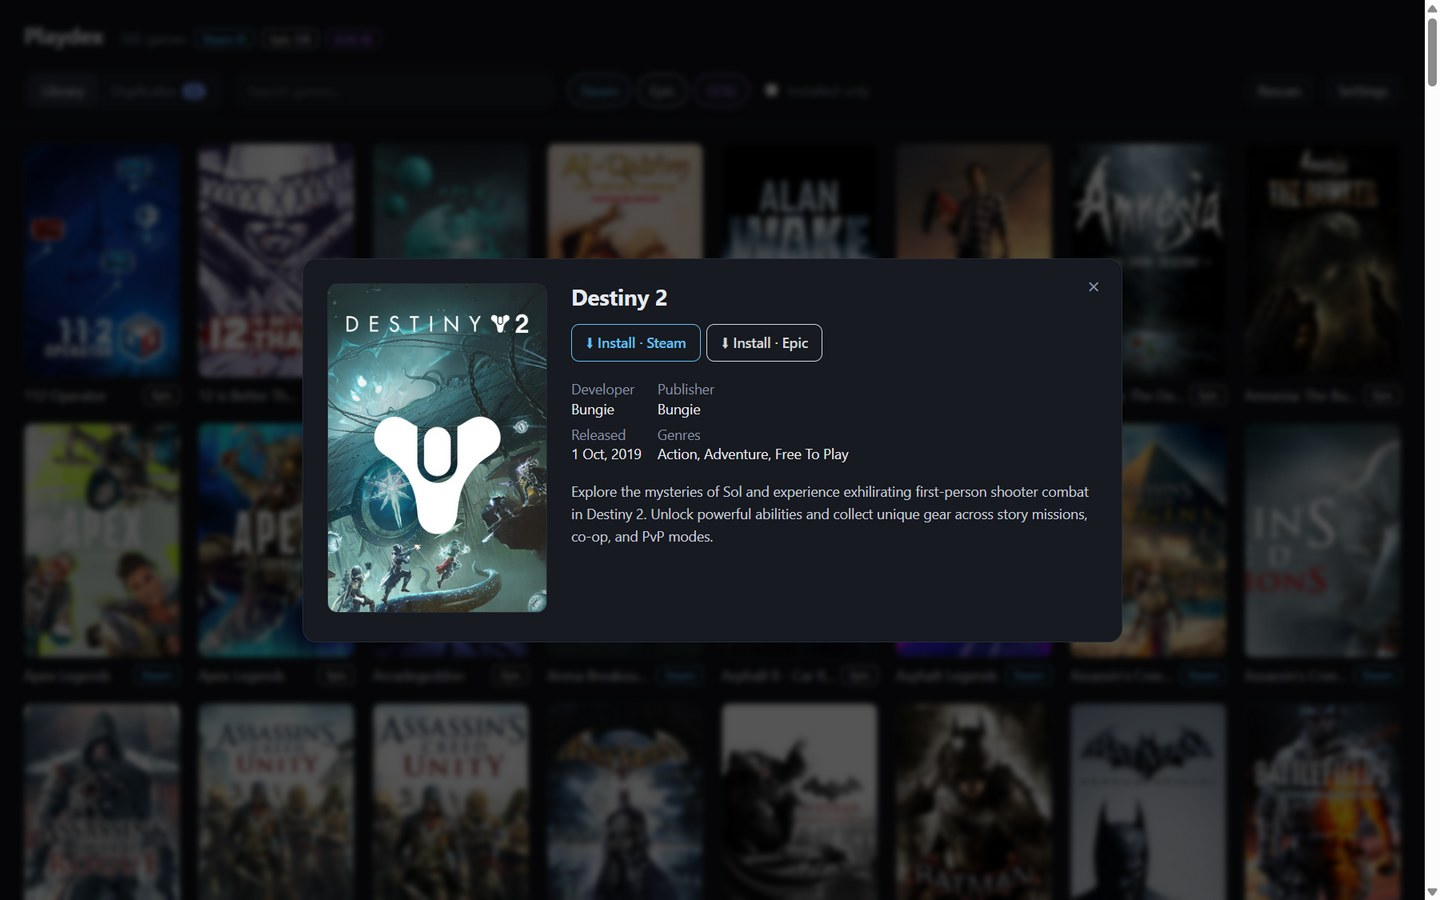
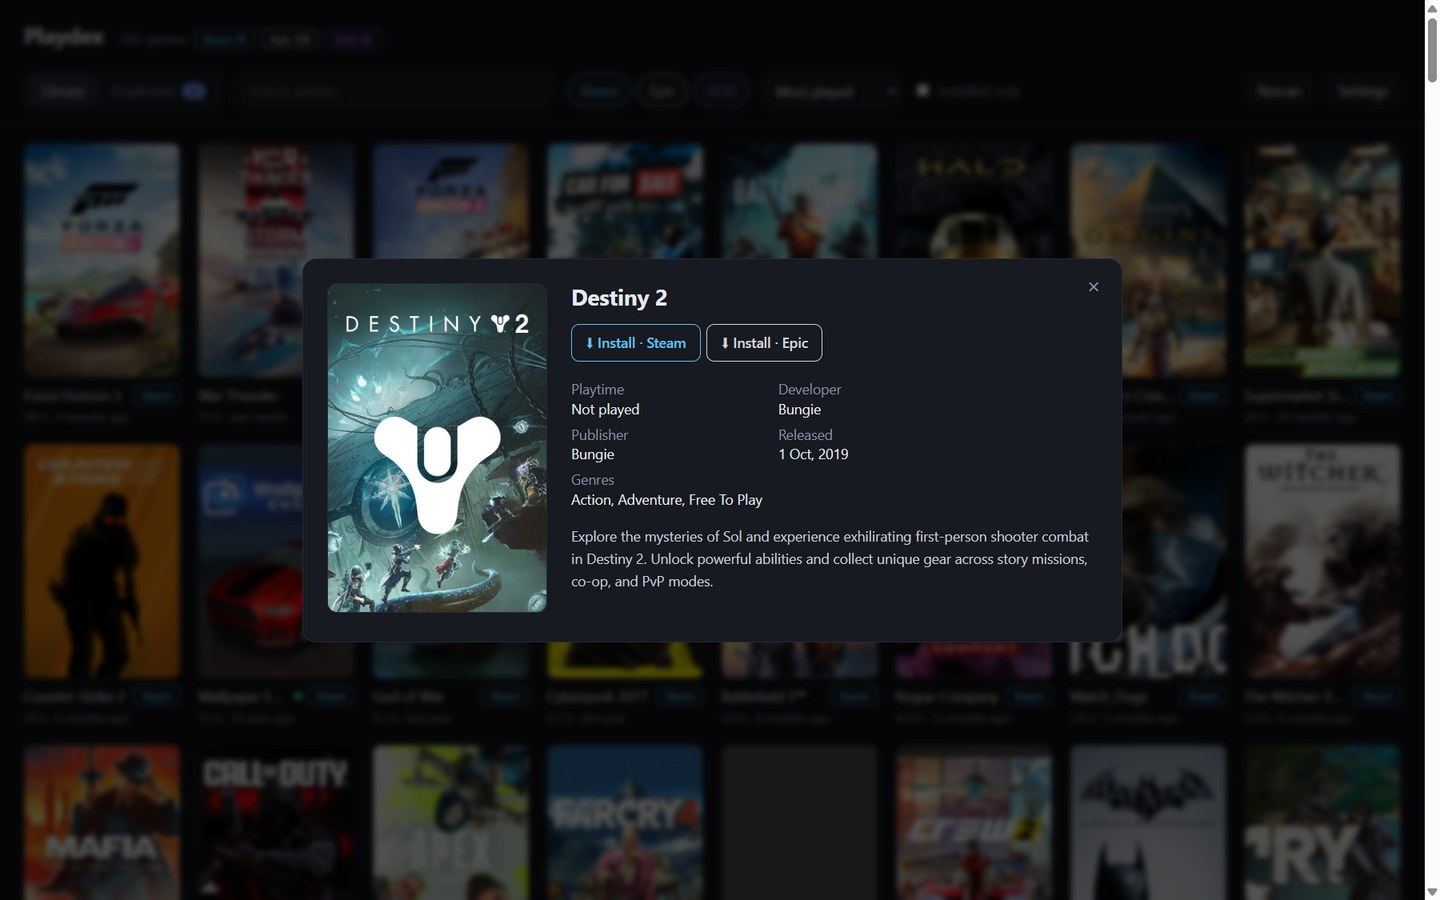
Add playtime, last played and sort options
- Steam: Playtime/LastPlayed from the account's localconfig.vdf (new text
  VDF parser); GOG: Galaxy's GameTimes and LastPlayedDates tables; Epic has
  no readable playtime, so it shows as not tracked instead of 0
- Cards show '98 h · 9 months ago' or 'Not played'; details show exact
  playtime and last-played date
- Sort menu: name, recently played, most played, installed first
  (remembered); disabled on the Duplicates tab
- Fix select text color on the dark theme; refresh README screenshots

diff --git a/public/app.js b/public/app.js
@@ -1,6 +1,7 @@
 const STORES = { steam: 'Steam', epic: 'Epic', gog: 'GOG' };
 const byStore = (a, b) => Object.keys(STORES).indexOf(a.store) - Object.keys(STORES).indexOf(b.store); // always Steam, Epic, GOG
-const state = { tab: 'library', q: '', stores: new Set(Object.keys(STORES)), installed: false };
+const state = { tab: 'library', q: '', stores: new Set(Object.keys(STORES)), installed: false, sort: 'name' };
+try { if (localStorage.sort in { name: 1, recent: 1, playtime: 1, installed: 1 }) state.sort = localStorage.sort; } catch { /* storage unavailable */ }
 let data = null;
 
 const $ = id => document.getElementById(id);
@@ -33,6 +34,28 @@ function cover(g) {
 
 const actionLabel = g => g.installed ? '▶ Play' : g.store === 'gog' ? 'Open in GOG Galaxy' : '⬇ Install';
 
+// ---------- playtime ----------
+// playtime: minutes; 0 = store tracks it but never played; null = store doesn't tell us (Epic).
+const hours = m => (m < 1 ? '< 1 min' : m < 60 ? `${m} min` : `${(m / 60).toFixed(m < 600 ? 1 : 0)} h`);
+const hoursLong = m => (m < 60 ? hours(m) : `${Math.floor(m / 60)} h ${m % 60} min`);
+const rtf = new Intl.RelativeTimeFormat('en', { numeric: 'auto' });
+function ago(ms) {
+  const days = Math.round((ms - Date.now()) / 864e5);
+  if (Math.abs(days) < 31) return rtf.format(days, 'day');
+  if (Math.abs(days) < 365) return rtf.format(Math.round(days / 30.4), 'month');
+  return rtf.format(Math.round(days / 365), 'year');
+}
+const played = g => g.playtime > 0 || g.lastPlayed;
+const playLine = g => g.playtime == null ? '' : !played(g) ? 'Not played' : [hours(g.playtime), g.lastPlayed && ago(g.lastPlayed)].filter(Boolean).join(' · ');
+
+// Scan order is A–Z, and sort() is stable, so ties stay alphabetical. Unknown playtime (Epic) sorts last.
+const SORTS = {
+  name: null,
+  recent: (a, b) => (b.lastPlayed ?? 0) - (a.lastPlayed ?? 0),
+  playtime: (a, b) => (b.playtime ?? -1) - (a.playtime ?? -1),
+  installed: (a, b) => b.installed - a.installed,
+};
+
 // ---------- details window ----------
 // Opens instantly with what the scan knows; the description fills in when it arrives.
 async function openDetails(g) {
@@ -52,7 +75,10 @@ async function openDetails(g) {
 
   const d = await window.library.details(g.id).catch(() => null);
   if (dlg.dataset.id !== g.id || !dlg.open) return;
+  const date = ms => new Date(ms).toLocaleDateString('en-GB', { day: 'numeric', month: 'short', year: 'numeric' }).replace(/ (\d{4})$/, ', $1');
   const facts = [
+    ['Playtime', g.playtime == null ? `Not tracked by ${STORES[g.store]}` : played(g) ? hoursLong(g.playtime) : 'Not played'],
+    ['Last played', g.lastPlayed && `${date(g.lastPlayed)} (${ago(g.lastPlayed)})`],
     ['Developer', d?.developers], ['Publisher', d?.publishers], ['Released', d?.released], ['Genres', d?.genres],
   ].filter(([, v]) => v?.length).map(([k, v]) => {
     const list = [].concat(v); // GOG can list every regional distributor as a publisher
@@ -72,7 +98,8 @@ const card = g => el('button', { className: 'card', title: `${g.title} (${STORES
   el('span', { className: 'meta' },
     el('span', { className: 'name', textContent: g.title }),
     g.installed ? el('span', { className: 'dot', title: 'Installed' }) : null,
-    el('span', { className: `badge ${g.store}`, textContent: STORES[g.store] })));
+    el('span', { className: `badge ${g.store}`, textContent: STORES[g.store] })),
+  el('span', { className: 'sub', textContent: playLine(g) }));
 
 const dupRow = d => el('div', { className: 'dup' },
   cover(d.games.find(g => g.cover) ?? d.games[0]),
@@ -93,6 +120,7 @@ function render() {
       textContent: errors[s] ? `${name}: not found` : `${name} ${games.filter(g => g.store === s).length}` })));
   $('dup-count').textContent = duplicates.length;
   $('tab-library').setAttribute('aria-selected', state.tab === 'library');
+  $('sort').disabled = state.tab !== 'library'; // the Duplicates list is always A–Z
   $('tab-dups').setAttribute('aria-selected', state.tab === 'dups');
 
   const q = state.q.trim().toLowerCase();
@@ -102,6 +130,7 @@ function render() {
 
   if (state.tab === 'library') {
     const list = games.filter(match);
+    if (SORTS[state.sort]) list.sort(SORTS[state.sort]);
     $('view').replaceChildren(...[errorNote, list.length
       ? el('div', { className: 'grid' }, ...list.map(card))
       : el('p', { className: 'empty', textContent: 'No games match.' })].filter(Boolean));
@@ -140,6 +169,12 @@ $('tab-library').onclick = () => { state.tab = 'library'; if (data) render(); };
 $('tab-dups').onclick = () => { state.tab = 'dups'; if (data) render(); };
 $('q').oninput = e => { state.q = e.target.value; if (data) render(); };
 $('installed').onchange = e => { state.installed = e.target.checked; if (data) render(); };
+$('sort').value = state.sort;
+$('sort').onchange = e => {
+  state.sort = e.target.value;
+  try { localStorage.sort = state.sort; } catch { /* storage unavailable: just not remembered */ }
+  if (data) render();
+};
 $('rescan').onclick = load;
 $('details-close').onclick = () => $('details').close();
 $('details').onclick = e => { if (e.target === $('details')) $('details').close(); }; // click on the backdrop

diff --git a/public/index.html b/public/index.html
@@ -13,7 +13,7 @@
   }
   * { box-sizing: border-box; }
   body { margin: 0; background: var(--bg); color: var(--text); font: 14px/1.4 system-ui, "Segoe UI", sans-serif; }
-  button, input { font: inherit; color: inherit; }
+  button, input, select { font: inherit; color: inherit; }
   :focus-visible { outline: 2px solid var(--accent); outline-offset: 2px; }
 
   header { display: flex; align-items: baseline; gap: 16px; flex-wrap: wrap; padding: 20px 24px 8px; }
@@ -34,6 +34,10 @@
   .chip.steam[aria-pressed="true"] { color: var(--steam); }
   .chip.epic[aria-pressed="true"] { color: var(--epic); }
   .chip.gog[aria-pressed="true"] { color: var(--gog); }
+  #sort { padding: 7px 10px; border-radius: 8px; border: 1px solid var(--line); background: var(--panel); cursor: pointer; }
+  #sort:disabled { opacity: .45; cursor: default; }
+  #sort option { background: var(--panel); }
+  .card .sub { margin-top: -4px; min-height: 1.4em; font-size: 12px; color: var(--muted); } /* min-height keeps rows aligned */
   label.toggle { display: flex; gap: 6px; align-items: center; color: var(--muted); cursor: pointer; }
   #rescan, #settings { border: 1px solid var(--line); background: var(--panel); padding: 6px 12px; border-radius: 8px; cursor: pointer; }
   #rescan { margin-left: auto; }
@@ -107,6 +111,12 @@
   </div>
   <input type="search" id="q" placeholder="Search games…" aria-label="Search games">
   <div id="chips" style="display:flex;gap:6px"></div>
+  <select id="sort" aria-label="Sort games">
+    <option value="name">Name (A–Z)</option>
+    <option value="recent">Recently played</option>
+    <option value="playtime">Most played</option>
+    <option value="installed">Installed first</option>
+  </select>
   <label class="toggle"><input type="checkbox" id="installed"> Installed only</label>
   <button id="rescan">Rescan</button>
   <button id="settings" title="Opens config.json, where you can add a Steam Web API key for an exact Steam library">Settings</button>

diff --git a/README.md b/README.md
@@ -56,6 +56,17 @@ Your Steam ID is read from Steam's `config/loginusers.vdf`. To use a different a
 `config.json` is git-ignored. Don't share the key, because it acts on your behalf with the Steam Web API.
 If the key fails, the app falls back to the local cache and shows why.
 
+## Playtime and sorting
+
+Each card shows how long you've played and when you last played ("98 h · 9 months ago", or "Not played").
+The **Sort** menu orders the library by name, recently played, most played, or installed first, and remembers your choice.
+
+| Store | Playtime and last played |
+|---|---|
+| Steam | `userdata/<account>/config/localconfig.vdf` (the account matching your Steam ID) |
+| GOG | Galaxy's `GameTimes` and `LastPlayedDates` tables |
+| Epic | Not available: Epic keeps it only in its encrypted account data, so Epic games show no playtime |
+
 ## Game details
 
 Clicking a game opens its details: description, developer, publisher, release date and genres, with a
